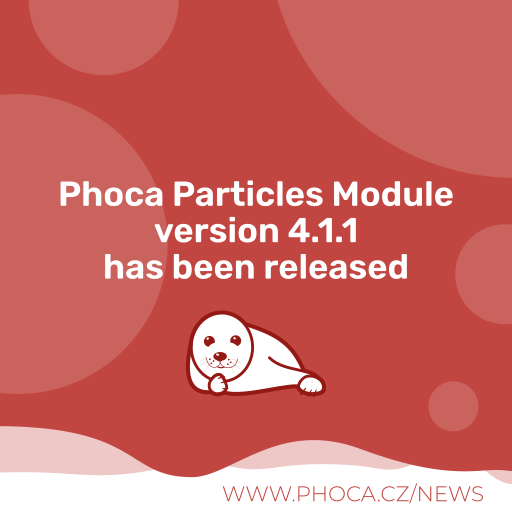
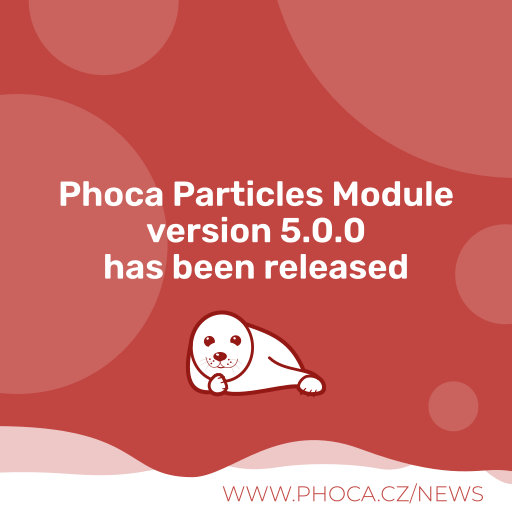
5.0.0

Changed region(s): [[0.2812, 0.4062, 0.7188, 0.5]]

diff --git a/media/css/style.css b/media/css/style.css
@@ -525,3 +525,10 @@
 .phModParticlesDescBottom {
     padding: 1em;
 }
+
+
+
+.phModParticlesVideoBox iframe {
+  aspect-ratio: 16 / 9;
+  width: 100%;
+}

diff --git a/tmpl/image_content.php b/tmpl/image_content.php
@@ -95,12 +95,17 @@ if ($p['main_link'] != '') {
 echo '<div class="phModParticlesItem'.$boxWidthClass.$flexClass.'">';
 
 // OPEN IMAGE BLOCK
+
 if ($p['main_image'] != '') {
     echo '<div class="phModParticlesItemImage'.$iC.'" '.$styleIcon.'>'. $linkStartIcon .'<img src="'.JURI::base() . '/'.htmlspecialchars(strip_tags($p['main_image'])).'" alt="'.$titleAlt.'" />'. $linkEnd .'';
 } else if (isset($items[0]->item_image) && $items[0]->item_image != ''){
     echo '<div class="phModParticlesItemImage'.$iC.'" '.$styleIcon.'>'. $linkStartIcon .'<img src="'.JURI::base() . '/'.htmlspecialchars(strip_tags($items[0]->item_image)).'" alt="'.$titleAlt.'" />'. $linkEnd .'';
 } else if (isset($items[0]->item_image_svg) && $items[0]->item_image_svg != ''){
     echo '<div class="phModParticlesItemImage'.$iC.'" '.$styleIcon.'>'. $linkStartIcon .$items[0]->item_image_svg. $linkEnd .'';
+} else if ($p['main_video'] != '') {
+    echo '<div class="phModParticlesItemImage'.$iC.'" '.$styleIcon.'>';
+   echo '<div class="phModParticlesVideoBox"><iframe width="560" height="315" src="//www.youtube.com/embed/'.htmlspecialchars(strip_tags($p['main_video'])).'" frameborder="0" allowfullscreen></iframe></div>';
+
 }
 
 
@@ -122,6 +127,12 @@ if ($p['main_image'] != '') {
     echo '</div>';
 } else if (isset($items[0]->item_image_svg) && $items[0]->item_image_svg != ''){
     echo '</div>';
+} else if ($p['image_empty_space'] == 1){
+    // Display empty space instead of image, in case e.g. the background image includes some part like image
+    echo '<div class="phModParticlesItemImage'.$iC.'" '.$styleIcon.'></div>';
+} else if ($p['main_video'] != '') {
+    echo '</div>';
+
 }
 
 

diff --git a/mod_phocaparticles.php b/mod_phocaparticles.php
@@ -43,6 +43,8 @@ $p['main_title'] 			= $params->get( 'main_title', '');
 $p['main_icon_class'] 		= $params->get( 'main_icon_class', '');
 $p['main_image_svg'] 		= $params->get( 'main_image_svg', '');
 $p['main_image'] 			= $params->get( 'main_image', '');
+$p['main_video']            = $params->get( 'main_video', '');
+$p['image_empty_space']     = $params->get( 'image_empty_space', 0);
 $p['main_description'] 		= $params->get( 'main_description', '');
 $p['main_link'] 			= $params->get( 'main_link', '');
 $p['main_link_attributes'] 	= $params->get( 'main_link_attributes', '');
@@ -203,8 +205,10 @@ if (!empty($itemsA)) {
         $i++;
     }
 }
-JHTML::stylesheet( 'media/mod_phocaparticles/css/style.css' );
 
+//JHTML::stylesheet( 'media/mod_phocaparticles/css/style.css' );
+$wa = $app->getDocument()->getWebAssetManager();
+$wa->registerAndUseStyle('mod_phocaparticles', 'media/mod_phocaparticles/css/style.css', array('version' => 'auto'));
 
 if ($p['custom_css'] != '') {
     $p['custom_css'] = str_replace('{moduleclass}', '.'.$idClass, $p['custom_css']);

diff --git a/tmpl/feature_box.php b/tmpl/feature_box.php
@@ -69,6 +69,23 @@ if (!empty($items)) {
 		if (isset($v->item_description) && $v->item_description != '') {
 			echo '<div class="phModParticlesDesc">'.$v->item_description.'</div>';
 		}
+
+
+		if (isset($v->button_title) && $v->button_title != '') {
+			$buttonLink = '';
+			if (isset($v->button_link) && $v->button_link != '') {
+				$buttonLink = $v->button_link;
+			}
+
+			$buttonAttr = '';
+			if (isset($v->button_attributes) && $v->button_attributes != '') {
+				$buttonAttr = $v->button_attributes;
+			}
+
+			echo '<div class="phModParticlesButtonBox"><a class="phModParticlesButton" href="'.$buttonLink.'" '.$buttonAttr.'>'.$v->button_title.'</a></div>';
+		}
+
+
 		echo '</div>';
 	}
 

diff --git a/tmpl/feature_row.php b/tmpl/feature_row.php
@@ -57,6 +57,8 @@ if (!empty($items)) {
 			echo '<div class="phModParticlesIcon" '.$styleIcon.'>'. $linkStartIcon .'<i class="'.htmlspecialchars(strip_tags($v->item_icon_class)).'"></i>'. $linkEnd .'</div>';
         } else if (isset($v->item_image_svg) && $v->item_image_svg != '') {
 			echo '<div class="phModParticlesSvg" '.$styleIcon.'>'. $linkStartIcon .$v->item_image_svg. $linkEnd .'</div>';
+		} else if (isset($v->item_image) && $v->item_image != '') {
+			echo '<div class="phModParticlesImage" '.$styleIcon.'>'. $linkStartIcon .'<img src="'.JURI::base() . '/'.htmlspecialchars(strip_tags($v->item_image)).'" alt="'.$titleAlt.'" />'. $linkEnd .'</div>';
 		}
 
 		if ($title != '') {

diff --git a/tmpl/image_feature_box.php b/tmpl/image_feature_box.php
@@ -111,6 +111,9 @@ if ($p['main_price'] != '') {
 // CLOSE IMAGE BLOCK
 if ($p['main_image'] != '') {
     echo '</div>';
+} else if ($p['image_empty_space'] == 1){
+    // Display empty space instead of image, in case e.g. the background image includes some part like image
+    echo '<div class="phModParticlesItemImage'.$iC.'" '.$styleIcon.'></div>';
 }
 
 

diff --git a/README.MD b/README.MD
@@ -58,6 +58,10 @@ Phoca Particles Module - a Joomla! CMS module which displays prepared HTML parts
 
 4.1.1
 
+## Version (Joomla! 5.x)
+
+5.0.0
+
 
 
 ## License
@@ -67,3 +71,17 @@ GNU/GPL
 
 
 This project is open source project - feel free to contribute! Thank you.
+
+
+
+## Social Media
+
+- [Phoca on Facebook](https://www.facebook.com/Phoca.cz)
+
+- [Phoca on X (Twitter)](https://twitter.com/PhocaCz)
+
+- [Phoca on YouTube](https://www.youtube.com/user/phocavideos)
+
+- [Phoca on GitHub](https://github.com/PhocaCz)
+
+- [Phoca on Reddit](https://www.reddit.com/user/PhocaCz)
